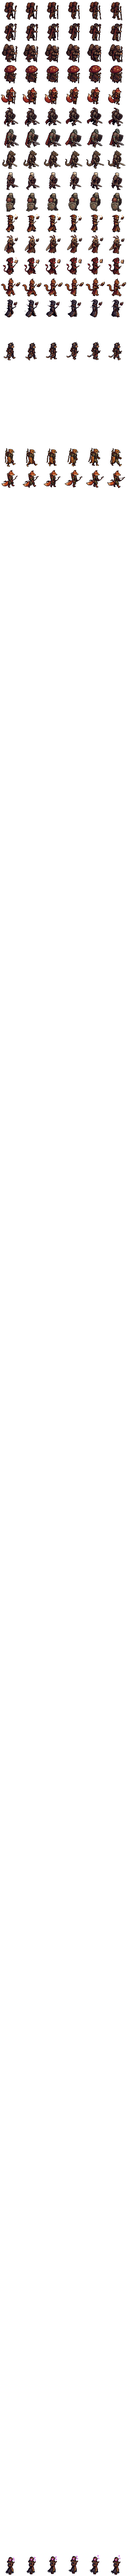
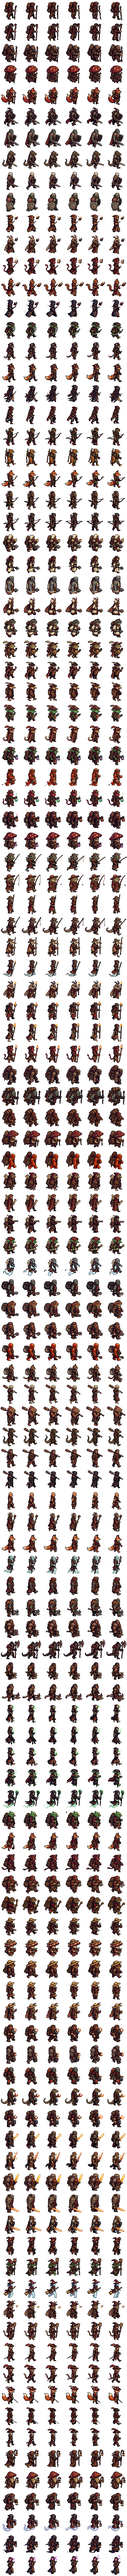
Every companion walks in the order of march
All 120 companions now have a six-frame walk; companions-walk.png is rebuilt with every row filled.

diff --git a/art/raw/NOTES.md b/art/raw/NOTES.md
@@ -23,7 +23,7 @@
 
 - 120 figures, `companion-<calling>-<1..5>.png`, 64 x 64, three-quarter view (south-east), made in PixelLab's premium mode with the keeper as the style reference.
 - `companion-<calling>-<n>-idle.png`: 2 frames of 64 x 64 side by side (128 x 64). Frame 1 is the still; in frame 2 the upper body dips 1 px while the feet stay planted. Made by hand from the still, because PixelLab's idle template redrew the figures and dropped their gear. Long items that cross the waist (staffs, poles) get a 1 px kink in frame 2, which isn't noticeable at speed.
-- No walk cycles yet (optional in the guide). All 8 directions exist in PixelLab if they're ever wanted.
+- `companion-<calling>-<n>-walk.png`: six 64 x 64 frames walking east (PixelLab v3 animation), used for the order of march on a quest. All 8 directions exist in PixelLab if they're ever wanted.
 
 ## Title screen
 
